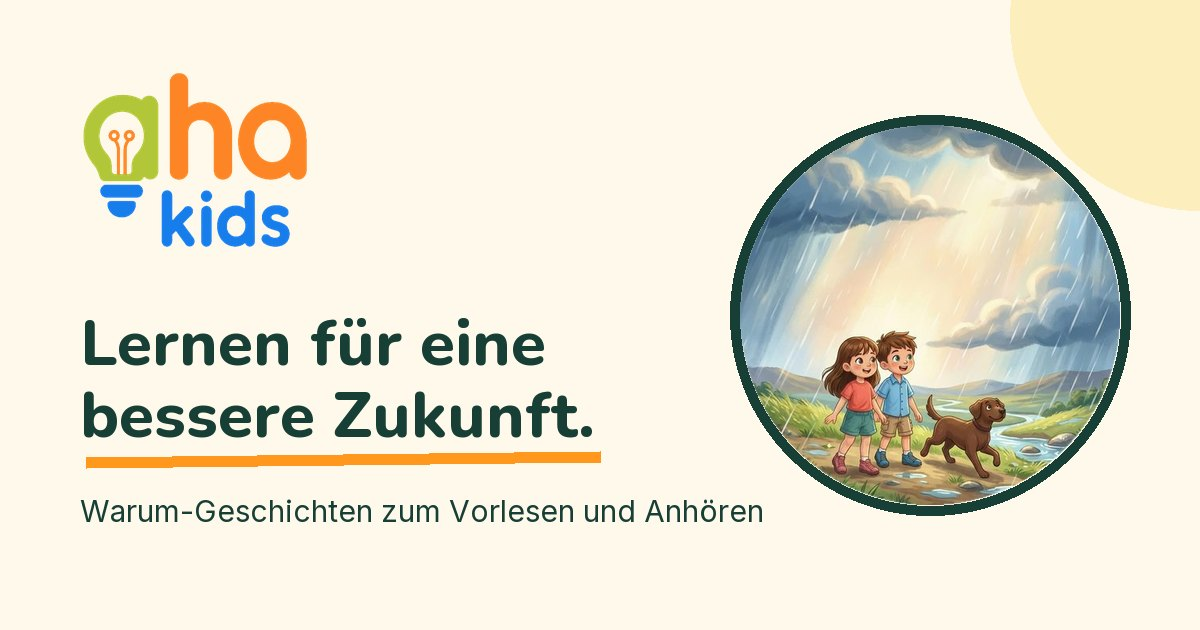
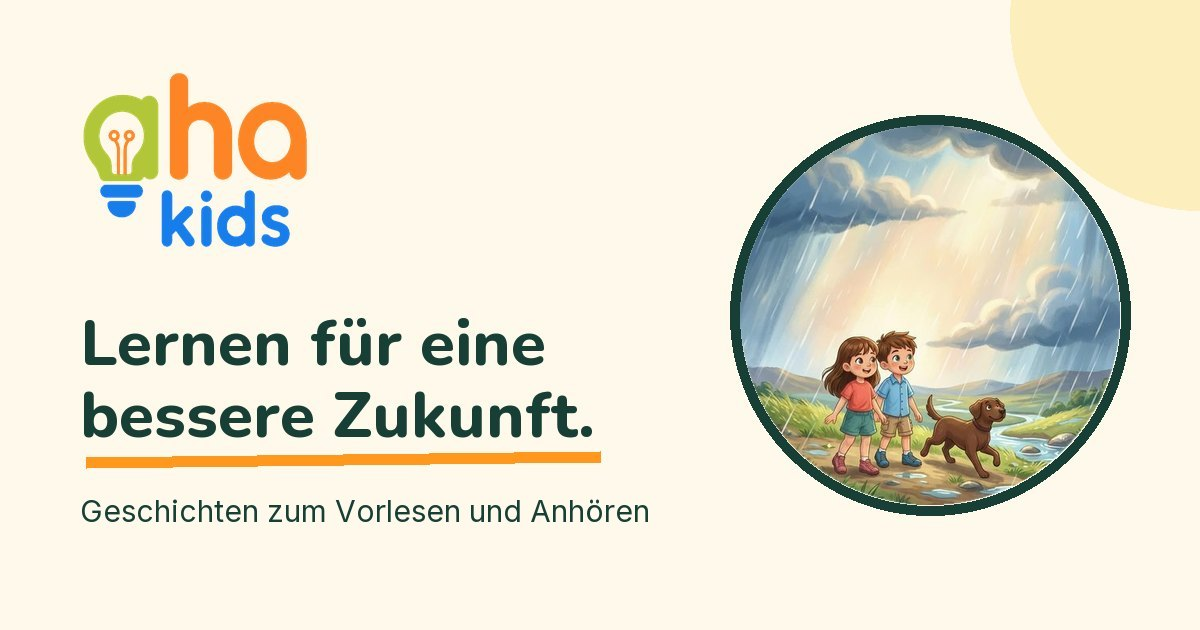
Tagline without „Warum“, no free-story pop-up, App Store link live
- „Geschichten zum Vorlesen und Anhören“ in hero label, title, OG/Twitter and share image
- Free-story pop-up removed (markup, CSS, script, its cover)
- Step 1: only „Die Reise eines Marmeladenglases“ ist gratis, no preview claim
- App Store buttons link to the listing („Laden im App Store“); closing section no longer says „kommt bald“
- sitemap lastmod 2026-10-16

Changed region(s): [[0.0617, 0.7841, 0.6475, 0.8444]]

diff --git a/index.html b/index.html
@@ -3,7 +3,7 @@
 <head>
   <meta charset="UTF-8">
   <meta name="viewport" content="width=device-width, initial-scale=1.0">
-  <title>Aha Kids – Warum-Geschichten zum Vorlesen und Anhören</title>
+  <title>Aha Kids – Geschichten zum Vorlesen und Anhören</title>
   <meta name="description" content="Wohin reist ein Regentropfen? Wie wird Sonne zu Strom? Aha Kids beantwortet echte Kinderfragen mit spannenden, liebevoll illustrierten Geschichten – zum Vorlesen und Anhören, in der App und als Buch.">
   <meta name="robots" content="index, follow, max-image-preview:large">
   <meta name="theme-color" content="#FFF9EC">
@@ -13,18 +13,18 @@
   <meta property="og:type" content="website">
   <meta property="og:site_name" content="Aha Kids">
   <meta property="og:url" content="https://aha-kids.de/">
-  <meta property="og:title" content="Aha Kids – Warum-Geschichten zum Vorlesen und Anhören">
+  <meta property="og:title" content="Aha Kids – Geschichten zum Vorlesen und Anhören">
   <meta property="og:description" content="Echte Kinderfragen, spannende Geschichten, echte Aha-Momente: Mit Fiete, Lotte und Hund Paco – zum Vorlesen und Anhören.">
   <meta property="og:image" content="https://aha-kids.de/images/brand/og-image.jpg">
   <meta property="og:image:width" content="1200">
   <meta property="og:image:height" content="630">
-  <meta property="og:image:alt" content="Aha Kids – Lernen für eine bessere Zukunft. Warum-Geschichten zum Vorlesen und Anhören">
+  <meta property="og:image:alt" content="Aha Kids – Lernen für eine bessere Zukunft. Geschichten zum Vorlesen und Anhören">
   <meta property="og:locale" content="de_DE">
   <meta property="og:locale:alternate" content="en_US">
 
   <!-- Twitter / X -->
   <meta name="twitter:card" content="summary_large_image">
-  <meta name="twitter:title" content="Aha Kids – Warum-Geschichten zum Vorlesen und Anhören">
+  <meta name="twitter:title" content="Aha Kids – Geschichten zum Vorlesen und Anhören">
   <meta name="twitter:description" content="Echte Kinderfragen, spannende Geschichten, echte Aha-Momente – zum Vorlesen und Anhören.">
   <meta name="twitter:image" content="https://aha-kids.de/images/brand/og-image.jpg">
 
@@ -106,7 +106,7 @@
     .btn-cream-outline { background:transparent; color:var(--cream); border-color:rgba(255,249,236,.35); }
     .btn-cream-outline:hover { border-color:var(--cream); }
 
-    /* App Store pill (shown as „bald“ until the app is live; see APP_STORE_URL in the script) */
+    /* App Store pill (links to APP_STORE_URL in the script) */
     .store { display:inline-flex; align-items:center; gap:.7rem; padding:.62rem 1.25rem .62rem 1rem; border-radius:16px; background:var(--forest); color:var(--cream); text-decoration:none; border:2px solid transparent; transition:transform .25s, background .25s; box-shadow:0 10px 26px rgba(23,63,53,.2); }
     .store:hover { transform:translateY(-2px); background:var(--forest-2); }
     .store svg { width:24px; height:24px; }
@@ -115,34 +115,6 @@
     .store-big { font-family:var(--display); font-weight:800; font-size:1.2rem; }
     .on-forest .store { background:var(--cream); color:var(--forest); box-shadow:none; }
     .on-forest .store:hover { background:#fff; }
-
-    /* ===== FREE STORY POP-UP (like the app's sheet after onboarding) ===== */
-    .freeoffer { position:fixed; inset:0; z-index:90; display:flex; align-items:center; justify-content:center; padding:20px; }
-    .freeoffer[hidden] { display:none; }
-    .fo-backdrop { position:absolute; inset:0; background:rgba(23,63,53,.42); opacity:0; transition:opacity .35s; }
-    .fo-sheet { position:relative; width:100%; max-width:440px; max-height:calc(100vh - 40px); overflow:auto; background:var(--cream); border-radius:32px; padding:40px 28px 16px; text-align:center; box-shadow:0 30px 80px rgba(10,30,25,.35); opacity:0; transform:translateY(40px) scale(.96); transition:transform .5s cubic-bezier(.2,1.25,.4,1), opacity .3s; }
-    .freeoffer.open .fo-backdrop { opacity:1; }
-    .freeoffer.open .fo-sheet { opacity:1; transform:none; }
-    .fo-sheet:focus { outline:none; }
-    .fo-x { position:absolute; right:14px; top:14px; width:40px; height:40px; border-radius:50%; border:0; background:rgba(23,63,53,.07); color:var(--forest); cursor:pointer; display:flex; align-items:center; justify-content:center; }
-    .fo-x:hover { background:rgba(23,63,53,.13); }
-    .fo-cover { position:relative; width:172px; height:172px; margin:4px auto 0; transform:rotate(-3deg); }
-    .fo-cover img { width:100%; height:100%; border-radius:26px; object-fit:cover; box-shadow:0 16px 34px rgba(60,40,10,.28); }
-    .fo-badge { position:absolute; left:-22px; top:-12px; background:var(--sun); color:var(--forest); font:800 15px/1 var(--display); padding:9px 14px; border-radius:100px; transform:rotate(-8deg); box-shadow:0 6px 14px rgba(0,0,0,.12); }
-    .fo-spark { position:absolute; right:-36px; top:-28px; width:56px; height:56px; }
-    .fo-h { font:800 1.72rem/1.2 var(--display); color:var(--forest); margin:24px 0 0; }
-    .fo-ul { position:relative; display:inline-block; white-space:nowrap; }
-    .fo-ul svg { position:absolute; left:-3%; bottom:-.34em; width:106%; height:.42em; }
-    .fo-t { font:600 1.06rem/1.3 var(--body); color:var(--forest); margin:18px 0 0; }
-    .fo-s { font-size:.92rem; color:var(--text-soft); margin:3px 0 0; }
-    .fo-p { font-size:.95rem; line-height:1.5; color:var(--text-soft); margin:14px auto 20px; max-width:30ch; }
-    .fo-later { display:block; margin:8px auto 0; background:none; border:0; font:600 1rem var(--body); color:var(--text-soft); padding:10px 20px; cursor:pointer; }
-    .fo-later:hover { color:var(--forest); }
-    @media (max-width:600px) {
-      .freeoffer { align-items:flex-end; padding:0; }
-      .fo-sheet { max-width:none; max-height:92vh; border-radius:32px 32px 0 0; padding-bottom:calc(16px + env(safe-area-inset-bottom)); transform:translateY(100%); }
-    }
-    @media (prefers-reduced-motion: reduce) { .fo-sheet, .fo-backdrop { transition:none; } }
 
     /* ===== HERO ===== */
     .hero { position:relative; padding:calc(var(--header-h) + 36px) 0 72px; overflow:hidden; }
@@ -543,7 +515,7 @@
   <section class="hero">
     <div class="wrap hero-grid">
       <div class="hero-copy">
-        <span class="label reveal" data-de="Warum-Geschichten zum Vorlesen und Anhören" data-en="Why-stories to read aloud and listen to">Warum-Geschichten zum Vorlesen und Anhören</span>
+        <span class="label reveal" data-de="Geschichten zum Vorlesen und Anhören" data-en="Stories to read aloud and listen to">Geschichten zum Vorlesen und Anhören</span>
         <h1 class="reveal">
           <span data-de="Lernen für eine" data-en="Learning for a">Lernen für eine</span><br>
           <span class="ul"><span data-de="bessere Zukunft." data-en="better future.">bessere Zukunft.</span><svg viewBox="0 0 600 80" preserveAspectRatio="none" aria-hidden="true"><path pathLength="1" d="M20 45 Q316.8 34 580 41" stroke="#FF981C" stroke-width="14" stroke-linecap="round" fill="none" vector-effect="non-scaling-stroke"/></svg></span>
@@ -559,9 +531,9 @@
         </div>
         <p class="hero-sub reveal" data-de="Mit Fiete, Lotte und Hund Paco entdeckt dein Kind Natur, Tiere, Umwelt und die kleinen Dinge, die unsere Welt besser machen. In der App zum Vorlesen, als Hörgeschichte und als Buch." data-en="With Fiete, Lotte and their dog Paco, your child discovers nature, animals, the environment and the little things that make our world a better place. In the app to read aloud, as an audio story and as a book.">Mit Fiete, Lotte und Hund Paco entdeckt dein Kind Natur, Tiere, Umwelt und die kleinen Dinge, die unsere Welt besser machen. In der App zum Vorlesen, als Hörgeschichte und als Buch.</p>
         <div class="hero-actions reveal">
-          <a class="store" href="#" data-store aria-disabled="true">
+          <a class="store" href="https://apps.apple.com/de/app/aha-kids-wissen-geschichten/id6768319817" target="_blank" rel="noopener" data-store>
             <svg viewBox="0 0 24 24" fill="none" stroke="currentColor" stroke-width="2" stroke-linecap="round" stroke-linejoin="round" aria-hidden="true"><rect x="6" y="2" width="12" height="20" rx="3.2"/><path d="M11 18h2"/></svg>
-            <span class="store-txt"><span class="store-small" data-de="Bald im" data-en="Coming soon to the">Bald im</span><span class="store-big">App Store</span></span>
+            <span class="store-txt"><span class="store-small" data-de="Laden im" data-en="Download on the">Laden im</span><span class="store-big">App Store</span></span>
           </a>
           <button class="btn btn-secondary" type="button" id="heroListen">
             <svg width="18" height="18" viewBox="0 0 24 24" fill="none" stroke="currentColor" stroke-width="2.2" stroke-linecap="round" stroke-linejoin="round" aria-hidden="true"><path d="M3 14v-2a9 9 0 0 1 18 0v2"/><rect x="2.5" y="14" width="5" height="7" rx="2"/><rect x="16.5" y="14" width="5" height="7" rx="2"/></svg>
@@ -674,7 +646,7 @@
       <div class="app-grid">
         <div class="app-steps-col reveal">
           <ol class="steps" role="tablist" aria-label="Funktionen der App" data-aria-de="Funktionen der App" data-aria-en="App features">
-            <li><button class="step on" type="button" role="tab" aria-selected="true" aria-controls="simStage" data-step="browse"><span class="step-num">1</span><span class="step-title" data-de="Geschichte aussuchen" data-en="Pick a story">Geschichte aussuchen</span><span class="step-text" data-de="Stöbert gemeinsam durch die Bibliothek. „Die Reise eines Marmeladenglases“ ist gratis, von allen anderen Geschichten lest ihr die ersten Seiten als Vorschau." data-en="Browse the library together. “Die Reise eines Marmeladenglases” is free, and you can preview the first pages of all the other stories.">Stöbert gemeinsam durch die Bibliothek. „Die Reise eines Marmeladenglases“ ist gratis, von allen anderen Geschichten lest ihr die ersten Seiten als Vorschau.</span><span class="step-prog"></span></button></li>
+            <li><button class="step on" type="button" role="tab" aria-selected="true" aria-controls="simStage" data-step="browse"><span class="step-num">1</span><span class="step-title" data-de="Geschichte aussuchen" data-en="Pick a story">Geschichte aussuchen</span><span class="step-text" data-de="Stöbert gemeinsam durch die Bibliothek. „Die Reise eines Marmeladenglases“ ist gratis." data-en="Browse the library together. “Die Reise eines Marmeladenglases” is free.">Stöbert gemeinsam durch die Bibliothek. „Die Reise eines Marmeladenglases“ ist gratis.</span><span class="step-prog"></span></button></li>
             <li><button class="step" type="button" role="tab" aria-selected="false" aria-controls="simStage" data-step="book"><span class="step-num">2</span><span class="step-title" data-de="Worum geht’s?" data-en="What’s it about?">Worum geht’s?</span><span class="step-text" data-de="Jede Buchseite zeigt, worum es geht und was dein Kind dabei entdeckt. Dann wählt ihr: „Lesen“ oder „Hörgeschichte“." data-en="Each book page shows what the story is about and what your child will discover. Then you choose: “Read” or “Audio story”.">Jede Buchseite zeigt, worum es geht und was dein Kind dabei entdeckt. Dann wählt ihr: „Lesen“ oder „Hörgeschichte“.</span><span class="step-prog"></span></button></li>
           </ol>
           <p class="step-detail" id="stepDetail" aria-live="polite"></p>
@@ -833,11 +805,11 @@
     <div class="wrap cta-grid">
       <div>
         <h2 class="h2 reveal" data-de="Bereit für das nächste Aha?" data-en="Ready for the next aha?">Bereit für das nächste Aha?</h2>
-        <p class="lead reveal" data-de="Die Aha Kids App kommt bald in den App Store. Trag dich in den Newsletter ein – wir sagen dir Bescheid, sobald sie da ist." data-en="The Aha Kids app is coming soon to the App Store. Join the newsletter – we’ll let you know as soon as it’s there.">Die Aha Kids App kommt bald in den App Store. Trag dich in den Newsletter ein – wir sagen dir Bescheid, sobald sie da ist.</p>
+        <p class="lead reveal" data-de="Die Aha Kids App ist jetzt im App Store. Trag dich in den Newsletter ein – wir sagen dir Bescheid, wenn neue Geschichten da sind." data-en="The Aha Kids app is now on the App Store. Join the newsletter – we’ll let you know when new stories are out.">Die Aha Kids App ist jetzt im App Store. Trag dich in den Newsletter ein – wir sagen dir Bescheid, wenn neue Geschichten da sind.</p>
         <div class="cta-actions reveal">
-          <a class="store" href="#" data-store aria-disabled="true">
+          <a class="store" href="https://apps.apple.com/de/app/aha-kids-wissen-geschichten/id6768319817" target="_blank" rel="noopener" data-store>
             <svg viewBox="0 0 24 24" fill="none" stroke="currentColor" stroke-width="2" stroke-linecap="round" stroke-linejoin="round" aria-hidden="true"><rect x="6" y="2" width="12" height="20" rx="3.2"/><path d="M11 18h2"/></svg>
-            <span class="store-txt"><span class="store-small" data-de="Bald im" data-en="Coming soon to the">Bald im</span><span class="store-big">App Store</span></span>
+            <span class="store-txt"><span class="store-small" data-de="Laden im" data-en="Download on the">Laden im</span><span class="store-big">App Store</span></span>
           </a>
           <button class="btn btn-sun" type="button" onclick="openNewsletterModal()">
             <svg width="18" height="18" viewBox="0 0 24 24" fill="none" stroke="currentColor" stroke-width="2.2" stroke-linecap="round" stroke-linejoin="round" aria-hidden="true"><path d="M6 8a6 6 0 0 1 12 0c0 7 3 9 3 9H3s3-2 3-9M10.3 21a1.9 1.9 0 0 0 3.4 0"/></svg>
@@ -849,28 +821,6 @@
     </div>
   </section>
   </main>
-
-  <!-- ============ FREE STORY POP-UP ============ -->
-  <div class="freeoffer" id="freeOffer" hidden>
-    <div class="fo-backdrop" data-fo-close></div>
-    <div class="fo-sheet" role="dialog" aria-modal="true" aria-labelledby="foTitle" tabindex="-1">
-      <button class="fo-x" type="button" data-fo-close aria-label="Schließen" data-aria-de="Schließen" data-aria-en="Close"><svg width="18" height="18" viewBox="0 0 24 24" fill="none" stroke="currentColor" stroke-width="2.6" stroke-linecap="round" aria-hidden="true"><path d="M6 6l12 12M18 6 6 18"/></svg></button>
-      <div class="fo-cover">
-        <img src="images/app/covers/sus24.jpg" width="480" height="480" alt="Titelbild: Die Reise eines Marmeladenglases" data-alt-de="Titelbild: Die Reise eines Marmeladenglases" data-alt-en="Cover: Die Reise eines Marmeladenglases" loading="lazy" decoding="async">
-        <span class="fo-badge" data-de="Gratis" data-en="Free">Gratis</span>
-        <svg class="fo-spark" viewBox="0 0 200 200" aria-hidden="true"><g transform="translate(62 100) scale(1.3)" stroke="#FF981C" stroke-width="12" stroke-linecap="round" fill="none"><path d="M0 -18 L12 -50"/><path d="M24 0 L58 -8"/><path d="M20 25 L47 48"/></g></svg>
-      </div>
-      <h2 class="fo-h" id="foTitle"><span data-de="Diese Geschichte ist" data-en="This story is">Diese Geschichte ist</span> <span class="fo-ul"><span data-de="gratis" data-en="free">gratis</span><svg viewBox="0 0 600 80" preserveAspectRatio="none" aria-hidden="true"><path d="M20 45 Q316.8 34 580 41" stroke="#FF981C" stroke-width="16" stroke-linecap="round" fill="none" vector-effect="non-scaling-stroke"/></svg></span></h2>
-      <p class="fo-t">Die Reise eines Marmeladenglases</p>
-      <p class="fo-s" data-de="Wie Altglas zu neuen Gläsern wird" data-en="How old glass becomes new jars">Wie Altglas zu neuen Gläsern wird</p>
-      <p class="fo-p" data-de="In der Aha Kids App lest ihr sie gemeinsam – ganz ohne Kauf." data-en="Read it together in the Aha Kids app – no purchase needed.">In der Aha Kids App lest ihr sie gemeinsam – ganz ohne Kauf.</p>
-      <a class="store" href="#" data-store aria-disabled="true">
-        <svg viewBox="0 0 24 24" fill="none" stroke="currentColor" stroke-width="2" stroke-linecap="round" stroke-linejoin="round" aria-hidden="true"><rect x="6" y="2" width="12" height="20" rx="3.2"/><path d="M11 18h2"/></svg>
-        <span class="store-txt"><span class="store-small" data-de="Bald im" data-en="Coming soon to the">Bald im</span><span class="store-big">App Store</span></span>
-      </a>
-      <button class="fo-later" type="button" data-fo-close data-de="Später" data-en="Later">Später</button>
-    </div>
-  </div>
 
   <!-- ============ FOOTER ============ -->
   <footer>
@@ -892,8 +842,8 @@
   <script>
   (function () {
     'use strict';
-    // Set the App Store link here once the app is live; every „Bald im App Store“ button then links to it.
-    var APP_STORE_URL = '';
+    // App Store listing; every [data-store] button links to it (empty = „Bald im“ + newsletter).
+    var APP_STORE_URL = 'https://apps.apple.com/de/app/aha-kids-wissen-geschichten/id6768319817';
 
     var reduce = window.matchMedia('(prefers-reduced-motion: reduce)').matches;
     var $ = function (s, r) { return (r || document).querySelector(s); };
@@ -1075,42 +1025,6 @@
     window.addEventListener('resize', fit);
     fit(); setDetail();
 
-
-    // free-story pop-up: after the first screen (or 12 s), once per page view, then 14 days of quiet after closing
-    (function () {
-      var box = $('#freeOffer'); if (!box) return;
-      var KEY = 'aha-free-offer', QUIET = 14 * 864e5, shown = false, last = null, timer = null;
-      try { var t0 = +localStorage.getItem(KEY); if (t0 && Date.now() - t0 < QUIET) return; } catch (e) {}
-      var sheet = $('.fo-sheet', box);
-      function focusables() { return $$('a[href], button', sheet).filter(function (el) { return el.offsetParent !== null; }); }
-      function onKey(e) {
-        if (e.key === 'Escape') { e.preventDefault(); close(); return; }
-        if (e.key !== 'Tab') return;
-        var f = focusables(), a = f[0], z = f[f.length - 1];
-        if (document.activeElement === sheet) { e.preventDefault(); (e.shiftKey ? z : a).focus(); return; }
-        if (e.shiftKey && document.activeElement === a) { e.preventDefault(); z.focus(); }
-        else if (!e.shiftKey && document.activeElement === z) { e.preventDefault(); a.focus(); }
-      }
-      function open() {
-        if (shown) return;
-        if (document.querySelector('.modal-overlay.open')) { timer = setTimeout(open, 4000); return; }
-        shown = true; clearTimeout(timer); window.removeEventListener('scroll', onScroll);
-        last = document.activeElement; box.hidden = false; void box.offsetWidth; box.classList.add('open');
-        document.addEventListener('keydown', onKey);
-        setTimeout(function () { sheet.focus({ preventScroll: true }); }, reduce ? 0 : 350);
-      }
-      function close() {
-        box.classList.remove('open'); document.removeEventListener('keydown', onKey);
-        try { localStorage.setItem(KEY, String(Date.now())); } catch (e) {}
-        setTimeout(function () { box.hidden = true; }, reduce ? 0 : 420);
-        if (last && last.focus) last.focus({ preventScroll: true });
-      }
-      function onScroll() { if (window.scrollY > window.innerHeight * 0.9) open(); }
-      $$('[data-fo-close]', box).forEach(function (el) { el.addEventListener('click', close); });
-      $('.store', sheet).addEventListener('click', close);
-      window.addEventListener('scroll', onScroll, { passive: true });
-      timer = setTimeout(open, 12000);
-    })();
 
     // hero: one kids' question at a time, with the matching story art; „Aha!“ pops on every change
     (function () {
